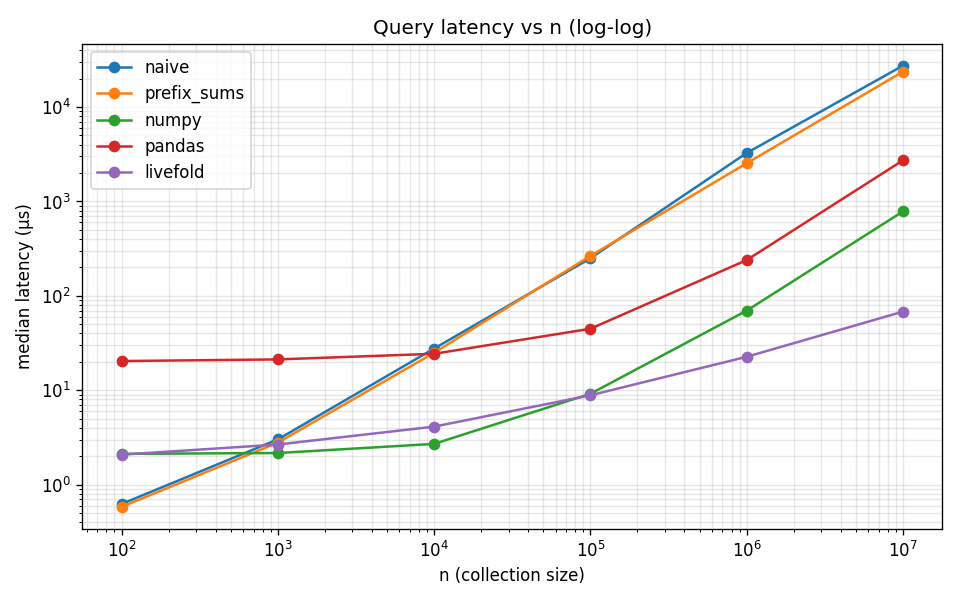
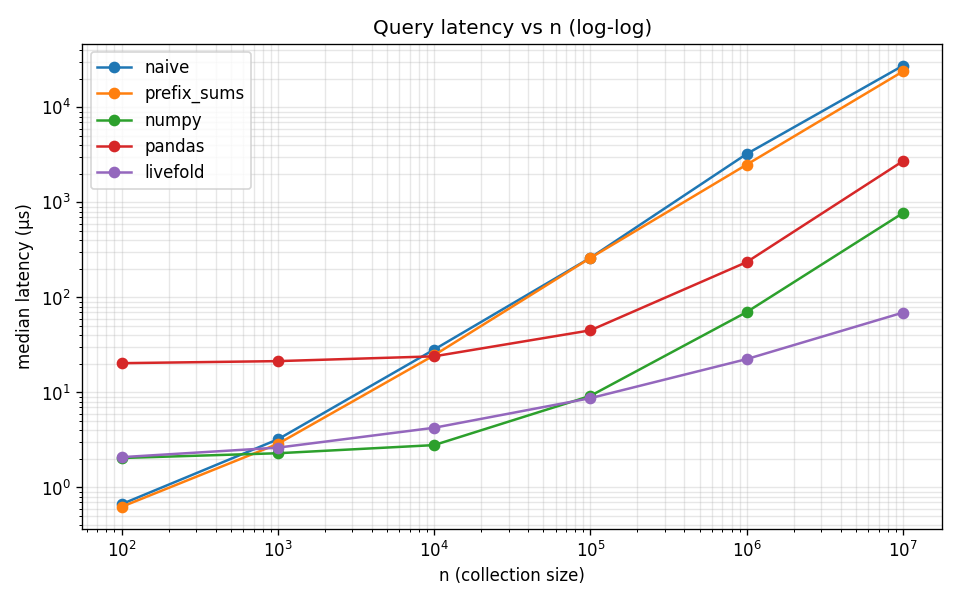
bench: uncap numpy/pandas appends through n=10M
The previous cap at n=100k for numpy/pandas append was overcautious — I
treated them symmetrically, but their constants are ~100x apart. numpy's
bare-buffer memcpy stays cheap; pandas' Index/dtype/Series rebuild does
not. Running both uncapped is the more honest visualization.

The full append story at n=10M is now visible:
- naive append:        0.04 µs   (timer floor)
- prefix_sums:         0.08 µs   (timer floor)
- livefold:            2.08 µs   (still flat across all n)
- numpy:           4,102 µs      (~2,000x slower than livefold)
- pandas:        179,808 µs      (~86,000x slower than livefold)

livefold is now the only horizontal line on the append chart — every
other backend either climbs steeply or sits at the bottom of the
query chart. Tradeoff: the runtime extends to ~13-15 minutes (pandas
appends at n=10M alone take ~3 minutes), but the visual story is the
strongest version of the pitch.

diff --git a/benchmarks/run.py b/benchmarks/run.py
@@ -21,9 +21,6 @@ random.seed(42)
 N_GRID = [10**i for i in range(2, 8)]  # 100, 1k, 10k, 100k, 1M, 10M
 QUERIES = 1000
 APPENDS = 1000
-# pandas/numpy O(n) per append × 1000 appends gets infeasible above this
-APPEND_CAP_N = 100_000
-APPEND_CAPPED_BACKENDS = {"pandas", "numpy"}
 
 
 def generate_data(n: int) -> list[float]:
@@ -75,9 +72,6 @@ def run_append_workload() -> dict[str, dict[int, float]]:
     for n in N_GRID:
         data = generate_data(n)
         for B in BACKENDS:
-            if B.name in APPEND_CAPPED_BACKENDS and n > APPEND_CAP_N:
-                print(f"  n={n:>8,d}  {B.name:>12s}: skipped (cap)")
-                continue
             backend = B(data)
             median = time_appends(backend)
             results[B.name][n] = median
@@ -148,10 +142,8 @@ def write_results(
         "",
         "- `naive` — Python list, full slice + reduction per query",
         "- `prefix_sums` — prefix array for sum; naive scan for max/min",
-        "- `numpy` — `np.ndarray`, rebuilt on append via `np.append` (capped at"
-        " n=100,000 for the append benchmark — O(n) per append)",
-        "- `pandas` — `pd.Series`, rebuilt on append (capped at n=100,000 for the"
-        " append benchmark — O(n) per append)",
+        "- `numpy` — `np.ndarray`, rebuilt on append via `np.append` (O(n) per append)",
+        "- `pandas` — `pd.Series`, rebuilt on append (O(n) per append)",
         "- `livefold` — `LiveFold` with `{sum, max, min}` folds",
         "",
         "## Reading these curves",

diff --git a/benchmarks/results.md b/benchmarks/results.md
@@ -8,8 +8,8 @@ Generated by `uv run python -m benchmarks.run`.
 
 - `naive` — Python list, full slice + reduction per query
 - `prefix_sums` — prefix array for sum; naive scan for max/min
-- `numpy` — `np.ndarray`, rebuilt on append via `np.append` (capped at n=100,000 for the append benchmark — O(n) per append)
-- `pandas` — `pd.Series`, rebuilt on append (capped at n=100,000 for the append benchmark — O(n) per append)
+- `numpy` — `np.ndarray`, rebuilt on append via `np.append` (O(n) per append)
+- `pandas` — `pd.Series`, rebuilt on append (O(n) per append)
 - `livefold` — `LiveFold` with `{sum, max, min}` folds
 
 ## Reading these curves
@@ -26,12 +26,12 @@ Generated by `uv run python -m benchmarks.run`.
 
 | n | naive | prefix_sums | numpy | pandas | livefold |
 |---|---|---|---|---|---|
-| 100 | 0.63 µs | 0.58 µs | 2.13 µs | 20.42 µs | 2.08 µs |
-| 1,000 | 3.02 µs | 2.79 µs | 2.17 µs | 21.25 µs | 2.67 µs |
-| 10,000 | 27.69 µs | 24.98 µs | 2.71 µs | 24.37 µs | 4.12 µs |
-| 100,000 | 250.35 µs | 264.94 µs | 9.19 µs | 44.85 µs | 8.85 µs |
-| 1,000,000 | 3259.19 µs | 2540.04 µs | 69.81 µs | 239.54 µs | 22.65 µs |
-| 10,000,000 | 27443.98 µs | 23701.75 µs | 783.88 µs | 2725.60 µs | 68.12 µs |
+| 100 | 0.67 µs | 0.62 µs | 2.04 µs | 20.33 µs | 2.08 µs |
+| 1,000 | 3.21 µs | 2.87 µs | 2.29 µs | 21.38 µs | 2.63 µs |
+| 10,000 | 28.27 µs | 24.62 µs | 2.79 µs | 24.00 µs | 4.25 µs |
+| 100,000 | 261.42 µs | 260.54 µs | 9.21 µs | 45.08 µs | 8.71 µs |
+| 1,000,000 | 3239.38 µs | 2500.42 µs | 70.12 µs | 235.42 µs | 22.44 µs |
+| 10,000,000 | 27522.96 µs | 23928.77 µs | 773.42 µs | 2722.63 µs | 69.27 µs |
 
 ## Append latency vs n
 
@@ -39,9 +39,9 @@ Generated by `uv run python -m benchmarks.run`.
 
 | n | naive | prefix_sums | numpy | pandas | livefold |
 |---|---|---|---|---|---|
-| 100 | 0.04 µs | 0.08 µs | 1.00 µs | 18.02 µs | 2.00 µs |
-| 1,000 | 0.04 µs | 0.08 µs | 1.08 µs | 33.15 µs | 2.00 µs |
-| 10,000 | 0.04 µs | 0.08 µs | 6.42 µs | 183.60 µs | 2.02 µs |
-| 100,000 | 0.04 µs | 0.08 µs | 11.63 µs | 1664.50 µs | 2.04 µs |
-| 1,000,000 | 0.08 µs | 0.08 µs | — | — | 2.04 µs |
-| 10,000,000 | 0.04 µs | 0.08 µs | — | — | 2.04 µs |
+| 100 | 0.04 µs | 0.08 µs | 0.96 µs | 17.87 µs | 2.00 µs |
+| 1,000 | 0.04 µs | 0.08 µs | 1.08 µs | 33.00 µs | 2.00 µs |
+| 10,000 | 0.04 µs | 0.08 µs | 6.13 µs | 189.42 µs | 2.04 µs |
+| 100,000 | 0.08 µs | 0.08 µs | 11.75 µs | 1699.10 µs | 2.04 µs |
+| 1,000,000 | 0.04 µs | 0.08 µs | 557.85 µs | 17696.27 µs | 2.08 µs |
+| 10,000,000 | 0.04 µs | 0.08 µs | 4101.73 µs | 179807.60 µs | 2.08 µs |
